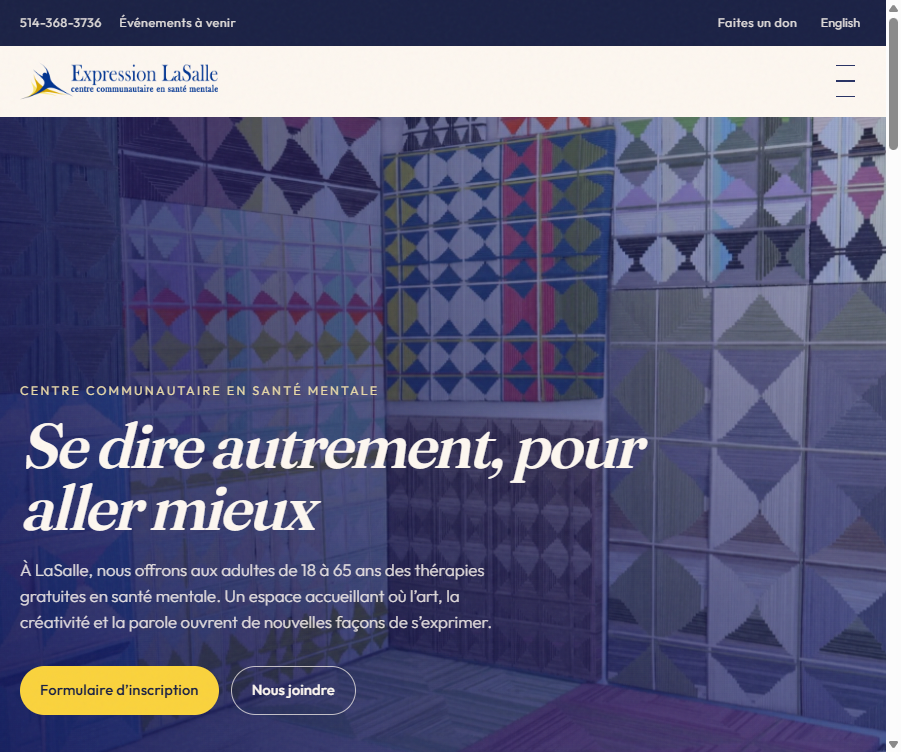
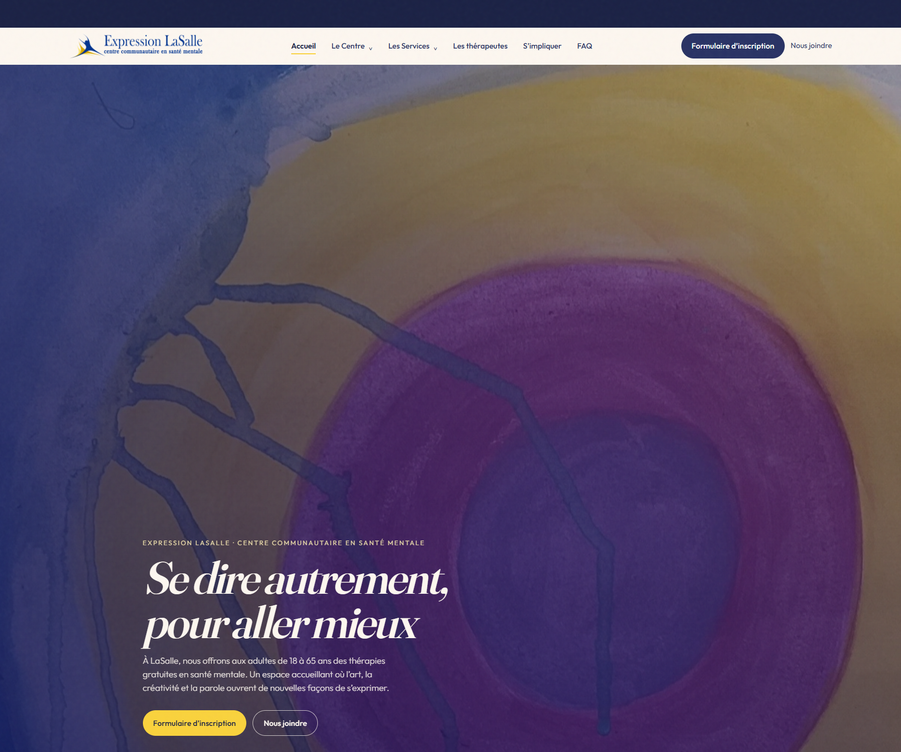
content(v2): Expression LaSalle site en ligne — captures, badge et CTA
Refresh Hero/Work portfolio shots from EL_Web and a real mobile capture, announce the live bilingual site with a navy CTA to expressionlasalletherapies.ca without changing layout or other projects.

diff --git a/lib/public-v2/workContent.ts b/lib/public-v2/workContent.ts
@@ -16,6 +16,8 @@ export type WorkCta = {
   href: string
   variant: 'primary' | 'ghost'
   external?: boolean
+  /** Accent CTA local (ex. bleu Expression LaSalle) — sans toucher aux autres boutons. */
+  accent?: 'expression'
 }
 
 export type WorkFeature = {
@@ -68,10 +70,10 @@ export const WORK_FEATURES: readonly WorkFeature[] = [
     title: 'Expression LaSalle',
     tags: 'Développement web · Microsoft 365 · Modernisation informatique',
     description:
-      'Refonte du site web bilingue et modernisation de l’environnement numérique de l’organisme, incluant la migration vers Microsoft 365 et des services de messagerie. Le site web est encore en finalisation.',
+      'Refonte du site web bilingue désormais en ligne, avec une nouvelle identité web pour l’organisme. Mandat incluant aussi la modernisation de l’environnement numérique (migration vers Microsoft 365 et services de messagerie).',
     badges: [
       { label: 'Projet client', variant: 'accent' },
-      { label: 'En finalisation', variant: 'neutral' },
+      { label: 'Site en ligne', variant: 'success' },
     ],
     media: {
       kind: 'site',
@@ -80,9 +82,16 @@ export const WORK_FEATURES: readonly WorkFeature[] = [
       phoneSrc: '/img/portfolio/expression-lasalle-phone.png',
       phoneAlt: 'Aperçu du site Expression LaSalle sur téléphone',
     },
-    ctas: [],
-    legalNote:
-      'Le site web est encore en finalisation — aucun lien public n’est proposé tant qu’il n’est pas disponible.',
+    ctas: [
+      {
+        label: 'Visiter le site ↗',
+        href: 'https://www.expressionlasalletherapies.ca/fr',
+        variant: 'primary',
+        external: true,
+        accent: 'expression',
+      },
+    ],
+    legalNote: 'Expression LaSalle — site public du client.',
     publishable: true,
   },
   {

diff --git a/app/components/public-v2/sections/Work/__tests__/WorkSection.test.tsx b/app/components/public-v2/sections/Work/__tests__/WorkSection.test.tsx
@@ -63,7 +63,7 @@ describe('WorkSection V2', () => {
     )
   })
 
-  it('DeskDot est un logiciel Windows ; Expression sans faux lien public', () => {
+  it('DeskDot est un logiciel Windows ; Expression publie un lien client externe', () => {
     render(
       <PublicThemeRoot>
         <WorkSection />
@@ -79,7 +79,22 @@ describe('WorkSection V2', () => {
     )
 
     const expression = WORK_FEATURES.find((f) => f.id === 'expression-lasalle')!
-    expect(expression.ctas).toHaveLength(0)
+    expect(expression.ctas[0]?.href).toBe('https://www.expressionlasalletherapies.ca/fr')
+    expect(expression.ctas[0]?.accent).toBe('expression')
+    expect(screen.getByRole('link', { name: 'Visiter le site ↗' })).toHaveAttribute(
+      'href',
+      'https://www.expressionlasalletherapies.ca/fr',
+    )
+    expect(screen.getByRole('link', { name: 'Visiter le site ↗' })).toHaveAttribute(
+      'target',
+      '_blank',
+    )
+    expect(screen.getByRole('link', { name: 'Visiter le site ↗' })).toHaveAttribute(
+      'rel',
+      'noopener noreferrer',
+    )
+    expect(screen.queryByText(/encore en finalisation/i)).not.toBeInTheDocument()
+    expect(screen.getByText('Site en ligne')).toBeInTheDocument()
 
     const thermo = WORK_FEATURES.find((f) => f.id === 'thermo-trappeur')!
     expect(thermo.ctas[0]?.href).toBe('https://www.thermo-trappeur.ca/fr')

diff --git a/app/components/public-v2/sections/Work/WorkFeature.tsx b/app/components/public-v2/sections/Work/WorkFeature.tsx
@@ -73,7 +73,13 @@ export default function WorkFeature({ feature, className }: WorkFeatureProps) {
         {feature.ctas.length > 0 ? (
           <div className={styles.actions}>
             {feature.ctas.map((cta) => (
-              <Button key={cta.href + cta.label} href={cta.href} variant={cta.variant} size="sm">
+              <Button
+                key={cta.href + cta.label}
+                href={cta.href}
+                variant={cta.variant}
+                size="sm"
+                className={cta.accent === 'expression' ? styles.expressionCta : undefined}
+              >
                 {cta.label}
               </Button>
             ))}

diff --git a/app/components/public-v2/sections/Work/WorkFeature.module.css b/app/components/public-v2/sections/Work/WorkFeature.module.css
@@ -174,6 +174,26 @@
   gap: var(--space-3);
 }
 
+/* Bleu marine Expression LaSalle — CTA dédié (ne pas hériter du primary ink). */
+.expressionCta {
+  background: #283264 !important;
+  border-color: #283264 !important;
+  color: #fff !important;
+}
+
+@media (hover: hover) and (pointer: fine) {
+  .expressionCta:hover:not(:disabled) {
+    filter: brightness(1.1);
+    transform: translateY(calc(var(--motion-lift) * -0.35));
+  }
+}
+
+@media (prefers-reduced-motion: reduce) {
+  .expressionCta:hover:not(:disabled) {
+    transform: none;
+  }
+}
+
 .legal {
   margin: var(--space-4) 0 0;
   font-size: 0.78rem;

diff --git a/docs/ijipop-v2/EXPRESSION-LASALLE-LIVE-REPORT.md b/docs/ijipop-v2/EXPRESSION-LASALLE-LIVE-REPORT.md
@@ -1,0 +1,41 @@
+# Expression LaSalle — site en ligne (livraison locale)
+
+## Remplacements d’assets
+
+| Ancien | Nouveau | Dimensions finales |
+|--------|---------|-------------------|
+| `public/img/portfolio/expression-lasalle-desktop.png` | dérivé de `EL_Web.png` (Sharp, cover haut, sans étirement) | 901 × 752 |
+| `public/img/portfolio/expression-lasalle-phone.png` | capture Playwright du site live @ 390 px | 780 × 1688 (@2×) |
+| — | `public/img/portfolio/EL_Web.png` (référence versionnée, source intacte dans `Portfolio/`) | 2544 × 1440 |
+
+Aucune modification Thermo / DeskDot / autres `public/img/portfolio/*`.
+
+## Contenu V2
+
+- Badge **Site en ligne** (remplace En finalisation)
+- CTA **Visiter le site ↗** → `https://www.expressionlasalletherapies.ca/fr` (nouvel onglet, `noopener noreferrer`)
+- Note « aucun lien public » supprimée
+- Description : site bilingue en ligne ; M365 / modernisation mentionnés sans statut « terminé »
+
+## Neon (manuel)
+
+Le catalogue `/portfolio/projets` conserve sa `imageUrl` Blob (`…1794356156927_ElWeb.png`) — **non modifié** par ce correctif.
+
+## Captures avant / après (local)
+
+Dossier (gitignored) : `design-lab/expression-lasalle-live/`
+
+- `before/` — ijipop.com (Production avant merge)
+- `after/` — `http://127.0.0.1:3000` avec ce correctif
+
+Fichiers : `hero-{1440,1024,768,390,320}.png`, `work-expression-{…}.png`
+
+Régénérer : `node design-lab/expression-lasalle-live/capture-sections.cjs <url> <label>` (nécessite `@playwright/test`).
+
+## Validation exécutée
+
+- `npm run typecheck`
+- `vitest` Work + Hero (7 tests)
+- `eslint` fichiers TS touchés
+- `npm run build`
+- `git diff --check`
